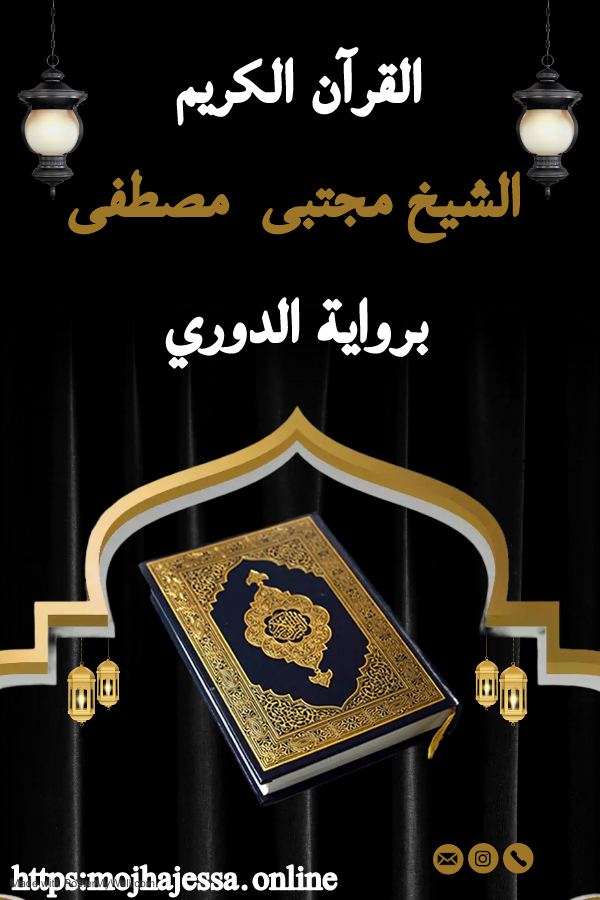
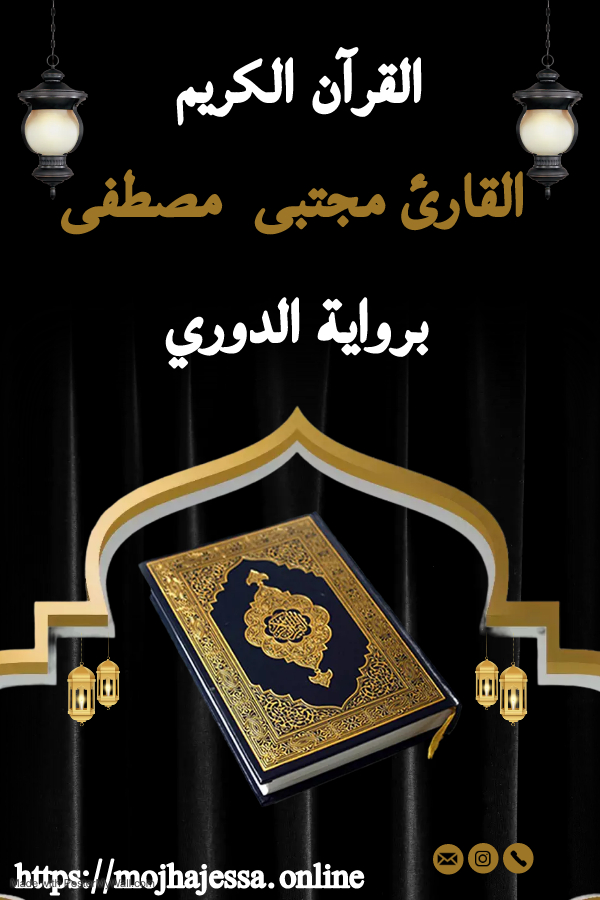
fix name

Changed region(s): [[0.42, 0.1867, 0.87, 0.28], [0.0, 0.9333, 0.63, 1.0], [0.09, 0.1867, 0.39, 0.28]]

diff --git a/index.html b/index.html
@@ -2,6 +2,9 @@
 <html>
 <head>
 <meta name="viewport" content="width=device-width, initial-scale=1">
+<title>
+  القارئ مجتبى مصطفى
+</title>
 <style>
 body, html {
   height: 100%;
@@ -25,7 +28,12 @@ body, html {
 </head>
 <body>
 
-<div class="bg"></div>
+<div class="bg">
+  <audio  controls autoplay style="position:fixed; bottom:0">
+    <source src="a.mp3" type="audio/mpeg">
+  Your browser does not support the audio element.
+  </audio>
+</div>
 
 <p></p>
 
